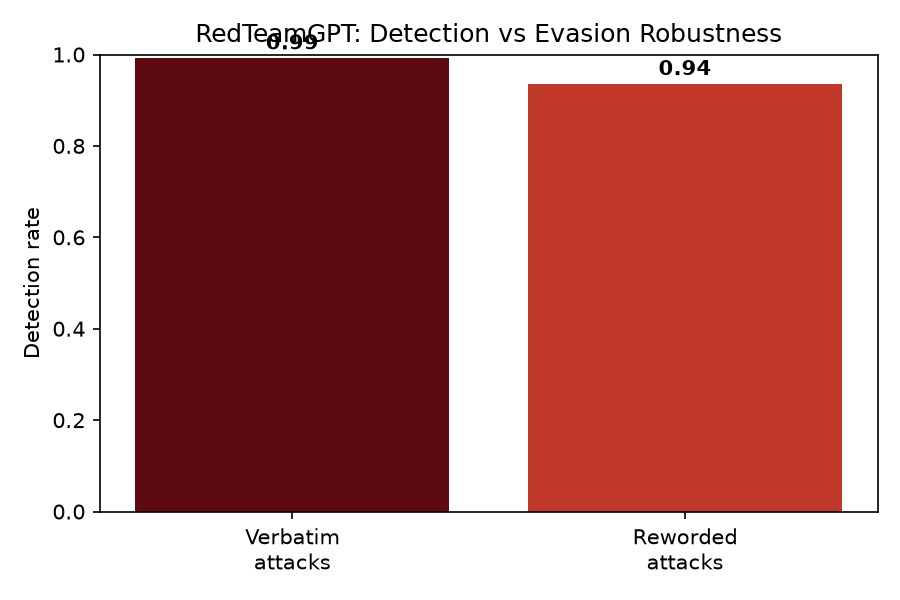
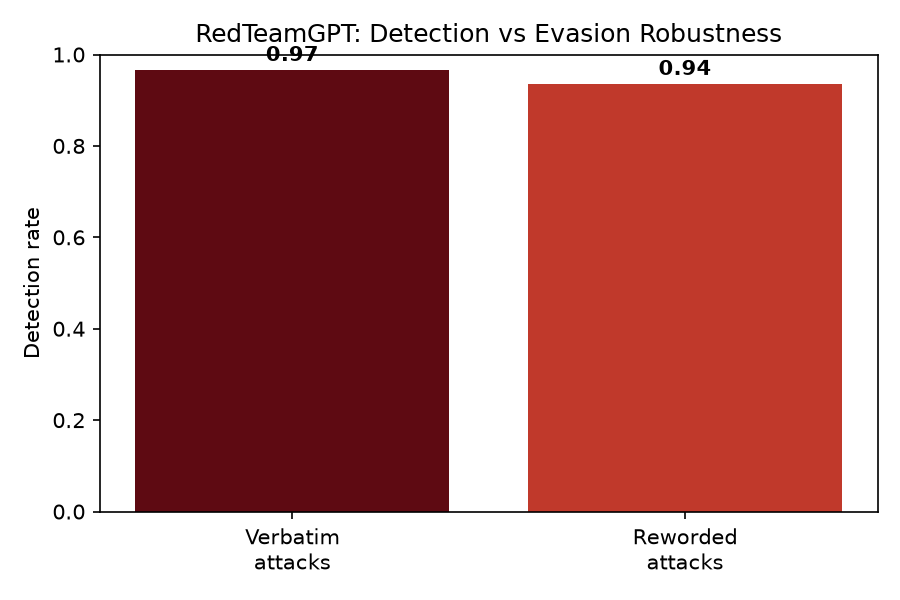
Add a local demo mode and refresh the Model tab figures for v6
A rehearsal on the office network found that the public link printed by
cloudflared was dead: the firewall blocks the tunnel's outbound port, and
visitors got HTTP 530. The script now waits for a registered tunnel
connection and explains the block if none arrives. A new -Local mode serves
http://localhost:7880 for screen-sharing on any network.

The Model tab still showed figures for a 23 September model. evaluate.py now
takes --data so it uses the split v6 trained on. On 2,129 test prompts: 97.6%
accuracy, 96.6% recall, 1.8% false positives, and 93.5% of reworded attacks
still caught.

Rehearsal in local mode: 18/18 demo features pass, including the Gemini
assistant, document scanning, review queue, audit telemetry and API keys.

Changed region(s): [[0.1244, 0.06, 0.4978, 0.12]]

diff --git a/src/evaluate.py b/src/evaluate.py
@@ -62,8 +62,8 @@ def simple_paraphrase(text):
     return p + t
 
 
-def evaluate():
-    df = pd.read_csv(DATA).dropna(subset=["text"])
+def evaluate(data_path=DATA):
+    df = pd.read_csv(data_path).dropna(subset=["text"])
     # same split as training so we test on held-out data
     _, test_df = train_test_split(df, test_size=0.2, random_state=42, stratify=df["label"])
     print(f"Evaluating on {len(test_df)} held-out prompts...")
@@ -114,7 +114,7 @@ def evaluate():
     metrics = {
         "status": "OPERATIONAL",
         "architecture": _describe_model(),
-        "training_dataset": "Jailbreak-Classification + AdvBench + JailbreakBench + Alpaca",
+        "training_dataset": Path(data_path).name,
         "evaluated_at": datetime.now(timezone.utc).isoformat(),
         "test_set_size": int(len(test_df)),
         "metrics": {
@@ -156,4 +156,9 @@ def evaluate():
 
 
 if __name__ == "__main__":
-    evaluate()
+    import argparse
+
+    parser = argparse.ArgumentParser(description="Evaluate the served model on its own test split.")
+    # Must be the CSV the model was trained on, so the split matches training.
+    parser.add_argument("--data", default=str(DATA))
+    evaluate(parser.parse_args().data)

diff --git a/README.md b/README.md
@@ -93,8 +93,13 @@ Runs the production configuration (Postgres, ONNX, secure cookies) on this machi
 publishes it through a free Cloudflare quick tunnel. No account or card is needed.
 
 ```powershell
-powershell -ExecutionPolicy Bypass -File scripts\start-demo.ps1
+powershell -ExecutionPolicy Bypass -File scripts\start-demo.ps1          # public link
+powershell -ExecutionPolicy Bypass -File scripts\start-demo.ps1 -Local   # this laptop only
 ```
+
+Office networks often block Cloudflare Tunnel (outbound port 7844). The script detects
+this and says so instead of printing a dead link. On such networks use `-Local` and share
+your screen; it needs no tunnel and opens the browser at `http://localhost:7880`.
 
 The script starts Docker Desktop if needed, then the database, the tunnel and the app, and
 prints a `https://<random>.trycloudflare.com` link to share. It needs
